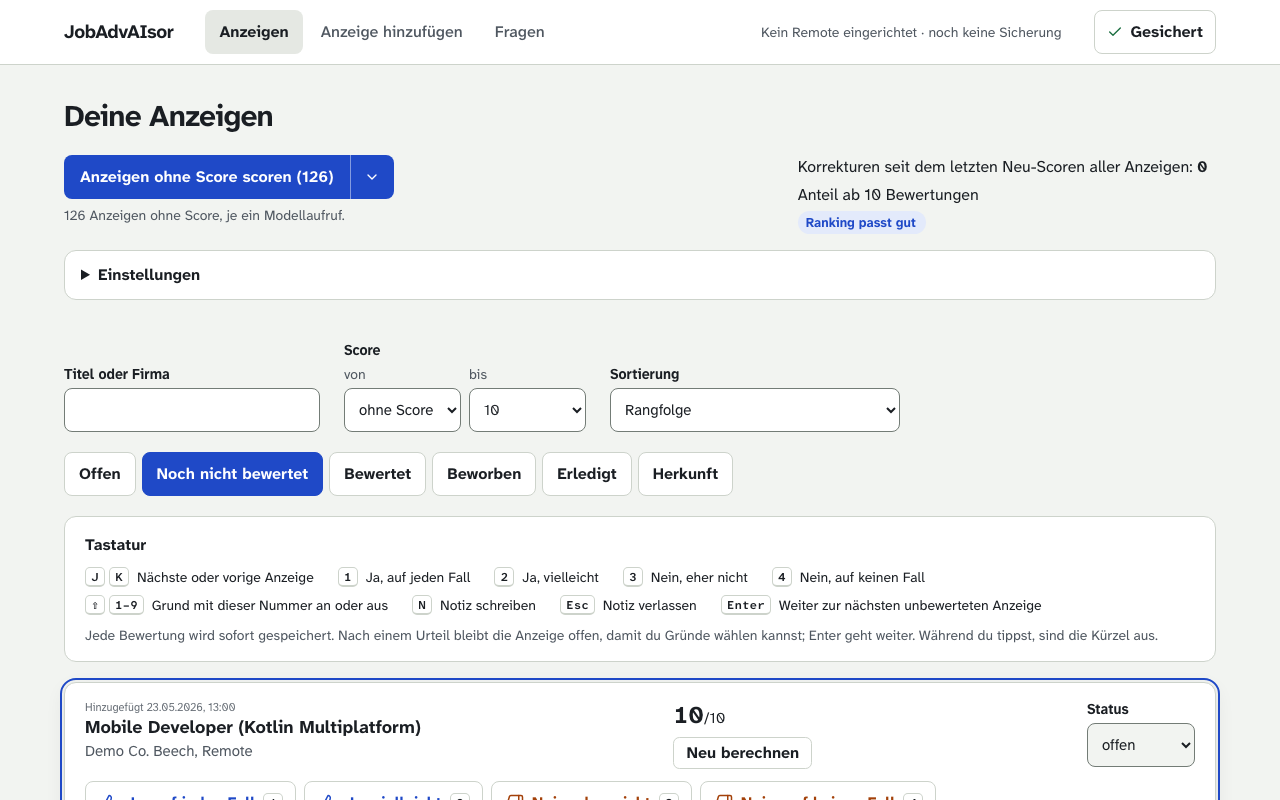
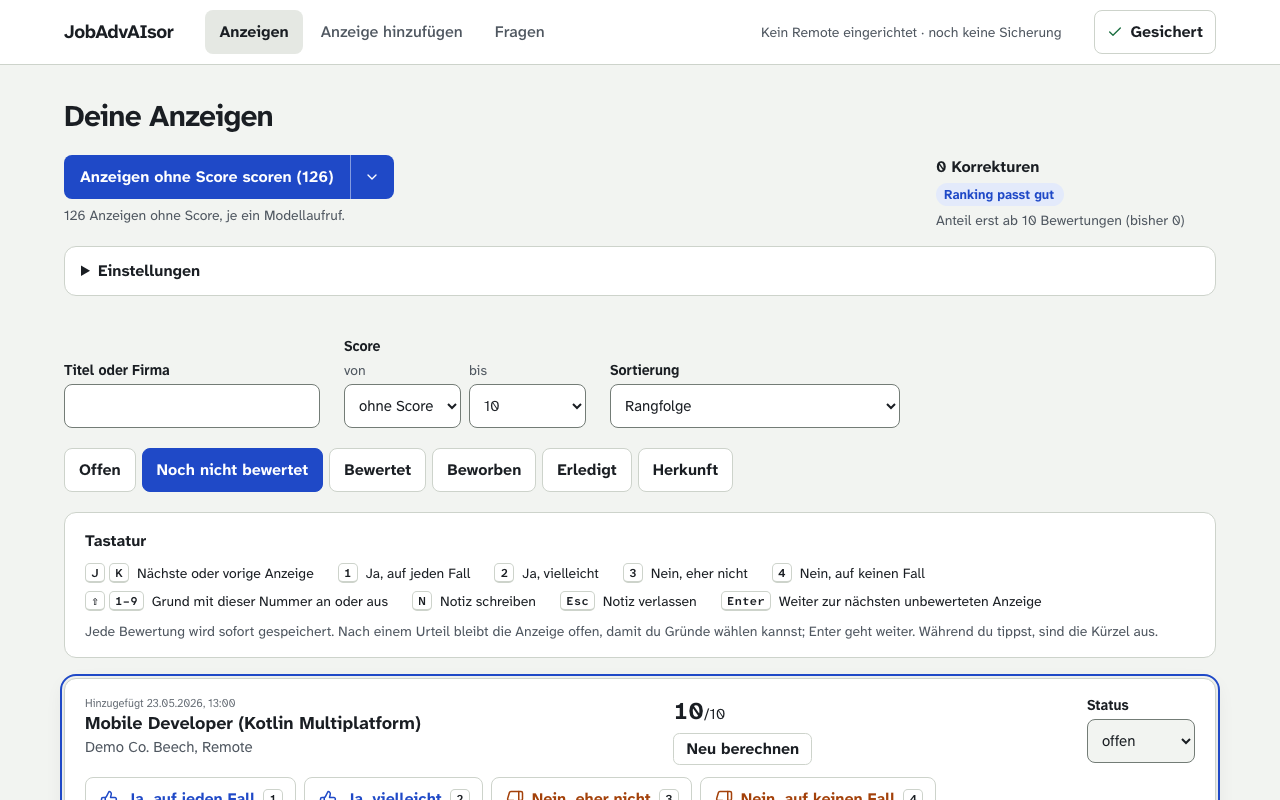
Correction counter becomes a 280 px column, the progress block takes the rest of the row (#18)
Counter: bold N Korrekturen, Anteil X %, the badge, and a muted line while the share is unknown. The progress block grows from a 340 px basis instead of a fixed width; the bar is 10 px high. Tests, e2e row layout, design and pool.png follow.

Claude-Session: https://claude.ai/code/session_01Gaydmx9R56jWubYbXBF3Bk

diff --git a/frontend/src/views/PoolView.tsx b/frontend/src/views/PoolView.tsx
@@ -141,9 +141,10 @@ const HINT_STOPPING = 'Wird nach der aktuellen Anzeige beendet.'
 const HINT_STORING = 'Das Speichern lässt sich nicht mehr abbrechen.'
 
 /** The progress of a running pass, beside the pass button (design variant A): a head line with the
- * loader, a bar and a hint line, each of fixed height (the hint always has two lines' room), 340 px
- * wide from `sm` and full width below, so the block keeps one size in every phase (while no pass
- * runs, an empty slot of that width keeps the counter in its place). `progress` null
+ * loader, a bar and a hint line, each of fixed height (the hint always has two lines' room), taking
+ * the remaining row width from `sm` (it grows from a 340 px basis, so a neighbour wraps instead of
+ * squeezing it) and the full width below, so the block keeps one size in every
+ * phase (while no pass runs, an empty slot of the same flex keeps the counter in its place). `progress` null
  * (no report yet) reads like checking: no count, empty bar. The bar fills with `done`/`total`
  * while scoring and is full while storing. The hint (`#cancel-why`, the cancel button's
  * description) says what a cancel does, that one was requested (`stopping`), or why storing cannot
@@ -160,13 +161,13 @@ function PassProgressBlock({ progress, stopping }: { progress: PassProgress | nu
   // The bar is full while storing, but its name says how many were scored (a cancel stores fewer).
   const barLabel = counted ? `Scoren: ${counted.done} von ${counted.total}` : storing ? 'Scores speichern' : 'Anzeigen prüfen'
   return (
-    <section aria-label="Stand des Scorens" className="flex w-full flex-col gap-1.5 sm:w-[340px] sm:flex-none">
+    <section aria-label="Stand des Scorens" className="flex w-full min-w-0 flex-col gap-1.5 sm:w-auto sm:flex-[1_1_340px]">
       <div className="flex h-6 items-center gap-2">
         <LoaderCircle className="size-[18px] flex-none motion-safe:animate-spin" aria-hidden="true" />
         <strong>{head}</strong>
       </div>
       <progress value={value} max={max} aria-label={barLabel}
-                className="h-2 w-full appearance-none overflow-hidden rounded-full border-0 bg-border [&::-moz-progress-bar]:bg-primary [&::-webkit-progress-bar]:rounded-full [&::-webkit-progress-bar]:bg-border [&::-webkit-progress-value]:rounded-full [&::-webkit-progress-value]:bg-primary" />
+                className="h-2.5 w-full appearance-none overflow-hidden rounded-full border-0 bg-border [&::-moz-progress-bar]:bg-primary [&::-webkit-progress-bar]:rounded-full [&::-webkit-progress-bar]:bg-border [&::-webkit-progress-value]:rounded-full [&::-webkit-progress-value]:bg-primary" />
       <p id="cancel-why" className={cn('h-10 text-sm leading-5 text-muted-foreground', stopping && !storing && 'font-bold text-foreground')}>
         {storing ? HINT_STORING : stopping ? HINT_STOPPING : (
           <>
@@ -758,14 +759,19 @@ export function PoolView({ active = true }: { active?: boolean }) {
           <PassButton nextPass={pool.next_pass} shown={shownVariant} busy={busy} working={working} stopping={stopping}
                       storing={storing} onPick={setPicked} onStart={start} onCancel={cancel} />
           {working ? <PassProgressBlock progress={pass?.progress ?? null} stopping={stopping} />
-            : <div aria-hidden="true" className="max-sm:hidden sm:w-[340px] sm:flex-none" />}
+            : <div aria-hidden="true" className="min-w-0 max-sm:hidden sm:flex-[1_1_340px]" />}
           {counter && (
-            <div className="flex flex-col gap-1">
-              <p>Korrekturen seit dem letzten Neu-Scoren aller Anzeigen: <strong>{counter.corrections}</strong></p>
-              <p>{counter.rate === null ? 'Anteil ab 10 Bewertungen' : `Anteil: ${Math.round(counter.rate * 100)} %`}</p>
+            <div className="flex w-full flex-col gap-1 sm:w-[280px] sm:flex-none">
+              <p>
+                <strong>{counter.corrections === 1 ? '1 Korrektur' : `${counter.corrections} Korrekturen`}</strong>
+                {counter.rate !== null && `, Anteil ${Math.round(counter.rate * 100)} %`}
+              </p>
               <Badge className={counter.hint === 'rescore' ? 'self-start bg-negative-soft text-negative' : 'self-start bg-positive-soft text-primary'}>
                 {counter.hint === 'rescore' ? 'neu scoren sinnvoll' : 'Ranking passt gut'}
               </Badge>
+              {counter.rate === null && (
+                <p className="text-sm text-muted-foreground">Anteil erst ab 10 Bewertungen (bisher {counter.rated})</p>
+              )}
             </div>
           )}
           <div className="min-w-[280px] flex-[1_1_320px]"><Settings settings={pool.settings} onSaved={load} /></div>

diff --git a/frontend/src/views/PoolView.test.tsx b/frontend/src/views/PoolView.test.tsx
@@ -128,16 +128,24 @@ test('the text filter matches title or company, ignoring case', async () => {
 test('the counter shows corrections, share and the fitting hint', async () => {
   stubApi({ 'GET /pool': { body: POOL } })
   render(<PoolView />)
-  const label = 'Korrekturen seit dem letzten Neu-Scoren aller Anzeigen:'
-  expect(await screen.findByText(new RegExp(label))).toHaveTextContent(`${label} 3`)
-  expect(screen.getByText('Anteil: 25 %')).toBeVisible()
+  expect(await screen.findByText('3 Korrekturen')).toBeVisible()
+  expect(screen.getByText('3 Korrekturen').parentElement).toHaveTextContent('3 Korrekturen, Anteil 25 %')
   expect(screen.getByText('Ranking passt gut')).toBeVisible()
+  expect(screen.queryByText(/Anteil erst ab 10 Bewertungen/)).toBeNull()
+  expect(screen.queryByText(/seit dem letzten Neu-Scoren/)).toBeNull()
+})
+
+test('one correction reads in the singular', async () => {
+  stubApi({ 'GET /pool': { body: poolWith({ counter: { ...POOL.counter, corrections: 1 } }) } })
+  render(<PoolView />)
+  expect(await screen.findByText('1 Korrektur')).toBeVisible()
 })
 
 test('below ten ratings the share is not shown and a rescore hint is', async () => {
   stubApi({ 'GET /pool': { body: poolWith({ counter: { ...POOL.counter, rate: null, hint: 'rescore' } }) } })
   render(<PoolView />)
-  expect(await screen.findByText('Anteil ab 10 Bewertungen')).toBeVisible()
+  expect(await screen.findByText(`Anteil erst ab 10 Bewertungen (bisher ${POOL.counter.rated})`)).toBeVisible()
+  expect(screen.getByText('3 Korrekturen').parentElement).toHaveTextContent(/^3 Korrekturen$/)
   expect(screen.getByText('neu scoren sinnvoll')).toBeVisible()
 })
 
@@ -567,14 +575,14 @@ test('the progress slot has the same width idle and running, so the counter keep
   const slot = () => splitGroup().parentElement!.parentElement!.nextElementSibling!
   expect(slot()).toHaveAttribute('aria-hidden', 'true')
   const idleClasses = slot().className
-  expect(idleClasses).toContain('sm:w-[340px]')
+  expect(idleClasses).toContain('sm:flex-[1_1_340px]')
   idle.unmount()
   vi.unstubAllGlobals()
   await openRunning(running('scoring', [30, 79]))
   expect(slot()).toBe(block())
-  expect(block().className).toContain('sm:w-[340px]')
-  expect(block().className).toContain('sm:flex-none')
-  expect(idleClasses).toContain('sm:flex-none')
+  expect(block().className).toContain('sm:flex-[1_1_340px]')
+  expect(block().className).toContain('min-w-0')
+  expect(idleClasses).toContain('min-w-0')
 })
 
 test('the cancel button shares the split button\'s grid cell, so the width stays', async () => {
@@ -1082,7 +1090,7 @@ const puts = (calls: Call[]) => calls.filter((call) => call.method === 'PUT' && 
 const button = (name: string) => screen.getByRole('button', { name })
 /** Expects the shown correction counter to read `count`: only a stored answer changes it. */
 const corrections = (count: number) =>
-  expect(screen.getByText(/Korrekturen seit dem letzten Neu-Scoren/)).toHaveTextContent(`aller Anzeigen: ${count}`)
+  expect(screen.getByText(`${count} Korrekturen`)).toBeVisible()
 
 test('a chip on a posting without a verdict gives it the derived verdict and the counter follows', async () => {
   const calls = stubApi({ 'GET /pool': { body: POOL }, 'PUT /postings/p2/rating': rateRoute('p2') })
@@ -1092,7 +1100,7 @@ test('a chip on a posting without a verdict gives it the derived verdict and the
   expect(puts(calls)[0].body).toEqual({ chips: ['great-stack'], note: null })
   expect(await row(ENGINEER).findByText('Bewertet: Ja')).toBeVisible()
   expect(screen.getByText('neu scoren sinnvoll')).toBeVisible()
-  expect(screen.getByText(/Korrekturen seit dem letzten Neu-Scoren aller Anzeigen:/)).toHaveTextContent('4')
+  expect(screen.getByText('4 Korrekturen')).toBeVisible()
 })
 
 test('chips of both polarities stay selectable, whatever the verdict', async () => {
@@ -1608,7 +1616,7 @@ test('a row score updates the row, the counter and the pass button count', async
   await userEvent.click(row(NEW).getByRole('button', { name: 'Score berechnen' }))
   expect(await row(NEW).findByText('9')).toBeVisible()
   expect(row(NEW).getByRole('button', { name: 'Neu berechnen' })).toBeEnabled()
-  expect(screen.getByText(/Korrekturen seit dem letzten Neu-Scoren/)).toHaveTextContent('Korrekturen seit dem letzten Neu-Scoren aller Anzeigen: 4')
+  expect(screen.getByText('4 Korrekturen')).toBeVisible()
   expect(screen.getByRole('button', { name: 'Alle Anzeigen neu scoren (8)' })).toBeEnabled()
   expect(calls.filter((call) => call.method === 'POST').map((call) => call.path)).toEqual(['/postings/n1/score'])
 })

diff --git a/backend/tests/e2e/test_score_walkthrough.py b/backend/tests/e2e/test_score_walkthrough.py
@@ -360,7 +360,7 @@ def test_the_row_of_the_pass_button_keeps_its_layout_in_every_running_state(page
     page.route("**/pool/passes/ps-row", lambda route: route.fulfill(json=current["body"]))
     split = page.locator("[role=group][aria-label=Scoren]")
     cancel = page.locator("button[aria-describedby=cancel-why]")
-    counter = page.get_by_text("Korrekturen seit dem letzten Neu-Scoren")
+    counter = page.get_by_text(re.compile(r"^\d+ Korrekturen?$")).locator("xpath=../..")
     idle_split: dict[int, float] = {}
     idle_counter: dict[int, float] = {}
     layout: dict[int, dict[str, tuple]] = {width: {} for width in ROW_WIDTHS}
@@ -386,7 +386,7 @@ def test_the_row_of_the_pass_button_keeps_its_layout_in_every_running_state(page
                 block, count = progress.bounding_box(), counter.bounding_box()
                 layout[width][state] = (
                     row.bounding_box()["height"], block["x"], block["width"], count["x"],
-                    cancel.bounding_box()["width"])
+                    count["width"], cancel.bounding_box()["width"])
                 overflowing += progress.evaluate(OVERFLOWING, f"{width} px, {state}")
     finally:  # later tests share the page: desktop width, no stored pass
         page.unroute("**/pool/passes/ps-row")
@@ -394,11 +394,11 @@ def test_the_row_of_the_pass_button_keeps_its_layout_in_every_running_state(page
         page.set_viewport_size({"width": 1280, "height": 720})
     table = "\n".join(
         f"{width} px (split {idle_split[width]}): {by_state}" for width, by_state in layout.items())
-    print("\n" + table)  # (row height, block x, block width, counter x, cancel width) per state
+    print("\n" + table)  # (row height, block x, block width, counter x, counter width, cancel width)
     for width, by_state in layout.items():
         measured = list(by_state.values())
-        assert len({values[:4] for values in measured}) == 1, table
-        assert {values[4] for values in measured} == {idle_split[width]}, table
+        assert len({values[:5] for values in measured}) == 1, table
+        assert {values[5] for values in measured} == {idle_split[width]}, table
         if width >= 640:  # below `sm` the idle slot is hidden by design, the counter moves down
             assert {values[3] for values in measured} == {idle_counter[width]}, (width, table)
     assert overflowing == [], overflowing  # a fixed box that clips or spills its text is no fix

diff --git a/openspec/changes/18-pass-progress-cancel/design.md b/openspec/changes/18-pass-progress-cancel/design.md
@@ -72,7 +72,8 @@ The look of the progress and the cancel button is drawn in the Design artifact [
 - **The view.**
   - `usePass` treats `cancelled` like `done`: it clears the stored pass, reloads the pool through `onDone`, and shows „Das Scoren wurde abgebrochen. N Anzeigen haben einen neuen Score.“ (with „1 Anzeige hat“ and „Keine Anzeige hat“). The text sits in the status region where „Das Scoren wurde abgebrochen.“ sits today, not in the `role="alert"` error box, and it clears when the next pass starts.
   - **Everything stays in the row of the pass button.** While a pass computes (`working`, including storing, not while it asks the unscreened question), the split button gives way to one outline button „Scoren abbrechen“ of exactly its width. Both share one grid cell: the split button stays in the layout, `invisible` and out of the tab order, and reserves the width, so the progress block and the counter do not move sideways when a pass starts or ends. The cost line under the split button is not shown while the cancel button is.
-  - **The progress block** sits right of the button, before the correction counter, with a fixed width of 340 px from `sm` and the full width below. It has three lines of fixed height: a head line (one line, 24 px) with the loader and „Scoren läuft: Anzeigen prüfen…“, „Scoren läuft: x von y“ or „Scores werden gespeichert“; a `<progress>` bar (empty while checking and while `progress` is `null`, `done`/`total` while scoring, full while storing) on a track in the border colour, so the empty bar stays visible on the page background; and a hint line of two lines' height whose text changes with the state: the default hint, „Wird nach der aktuellen Anzeige beendet.“ after a cancel request, or „Das Speichern lässt sich nicht mehr abbrechen.“ while storing. The block therefore keeps one height at every width and in every phase. The row may change height when a pass starts or ends, not from one phase to the next. The e2e walkthrough measures the row in all four running states (checking, scoring, cancel requested, storing) at 360, 390, 640, 768, 1024 and 1280 px.
+  - **The progress block** sits right of the button, before the correction counter, and takes the remaining width of the row (`flex: 1 1 340px`, `min-w-0`: it grows from 340 px, and below that the next item wraps instead of squeezing it) from `sm` and the full width below; the idle slot that reserves its place has the same flex. It has three lines of fixed height: a head line (one line, 24 px) with the loader and „Scoren läuft: Anzeigen prüfen…“, „Scoren läuft: x von y“ or „Scores werden gespeichert“; a `<progress>` bar (empty while checking and while `progress` is `null`, `done`/`total` while scoring, full while storing) 10 px high, on a track in the border colour, so the empty bar stays visible on the page background; and a hint line of two lines' height whose text changes with the state: the default hint, „Wird nach der aktuellen Anzeige beendet.“ after a cancel request, or „Das Speichern lässt sich nicht mehr abbrechen.“ while storing. The block therefore keeps one height at every width and in every phase. The row may change height when a pass starts or ends, not from one phase to the next. The e2e walkthrough measures the row in all four running states (checking, scoring, cancel requested, storing) at 360, 390, 640, 768, 1024 and 1280 px.
+  - **The correction counter is a narrow column** of fixed width 280 px from `sm` (full width below), so the progress block gets the rest of the row. Line 1: „N Korrekturen“ in bold („1 Korrektur“), followed by „, Anteil X %“ when the share is known. Line 2: the badge. Only while the share is unknown (fewer than 10 ratings): a small muted line „Anteil erst ab 10 Bewertungen (bisher N)“. The words „seit dem letzten Neu-Scoren aller Anzeigen“ are gone.
   - **The cancel button.** A press sends `POST …/cancel`. On the 202 the hook sets a separate `cancelling` flag, kept until the next `start`, so the button is inert at once and not only after the next poll. Patching `cancel_requested` on the local pass state would not hold: a poll already in flight when the 202 arrives answers without it and overwrites the patch. While `cancelling` or the polled `cancel_requested` is set, the button reads „Wird beendet…“ in the muted foreground colour. While storing it keeps its label „Scoren abbrechen“ and is inert too. In both states it is `aria-disabled`, with a guard in its click handler, instead of `disabled`, so it keeps keyboard focus, `aria-describedby` points at the hint line that gives the reason, and a further Enter does not fall through to the pool's shortcuts. The reason is visible text beside the button, so it needs no info icon.
   - **No double press.** After each swap (split button to cancel button when a pass starts, cancel button back to split button when it ends) the button that appeared ignores presses for 1 s. It is `aria-disabled` for that second, with the guard in its click handler. When the button that went away had focus, focus moves to the one that took its place, so a held Enter or a double click lands on an inert button instead of the page. This covers both slips the swap invites: a double click on start that would cancel the pass at once, and a cancel click that lands just as the pass ends and would start a new, paid pass. The confirm step stays out, as decided for the cancel.
   - **Focus survives every swap and disable.** Real Chromium blurs a focused button the moment it turns `disabled` or `inert`, and the next Enter then reaches the pool's row shortcuts. So the view reads whether focus is inside the pass-button area during render, before the commit, and moves it in a layout effect: to the cancel button when a pass starts, to the main part when it ends, to the heading of the unscreened question (`tabIndex={-1}`) when the pass stops at that question, never to a button that starts paid work. The main part is never natively `disabled`: with no postings to score, while a pass is `busy` and during the swap delay it is `aria-disabled` with a click guard, `aria-describedby` still names the reason. Both swap buttons use `transition-colors` instead of the base `transition-all`, because a transition on `visibility` keeps the button that just appeared `hidden` for a moment and `focus()` on it fails. Alternative: make the handoff target a stable chevron trigger. Rejected, because it moves a keyboard user off the button they pressed. A failed poll goes back to the main part, which stays visible and focused, and not to the cancel button.
